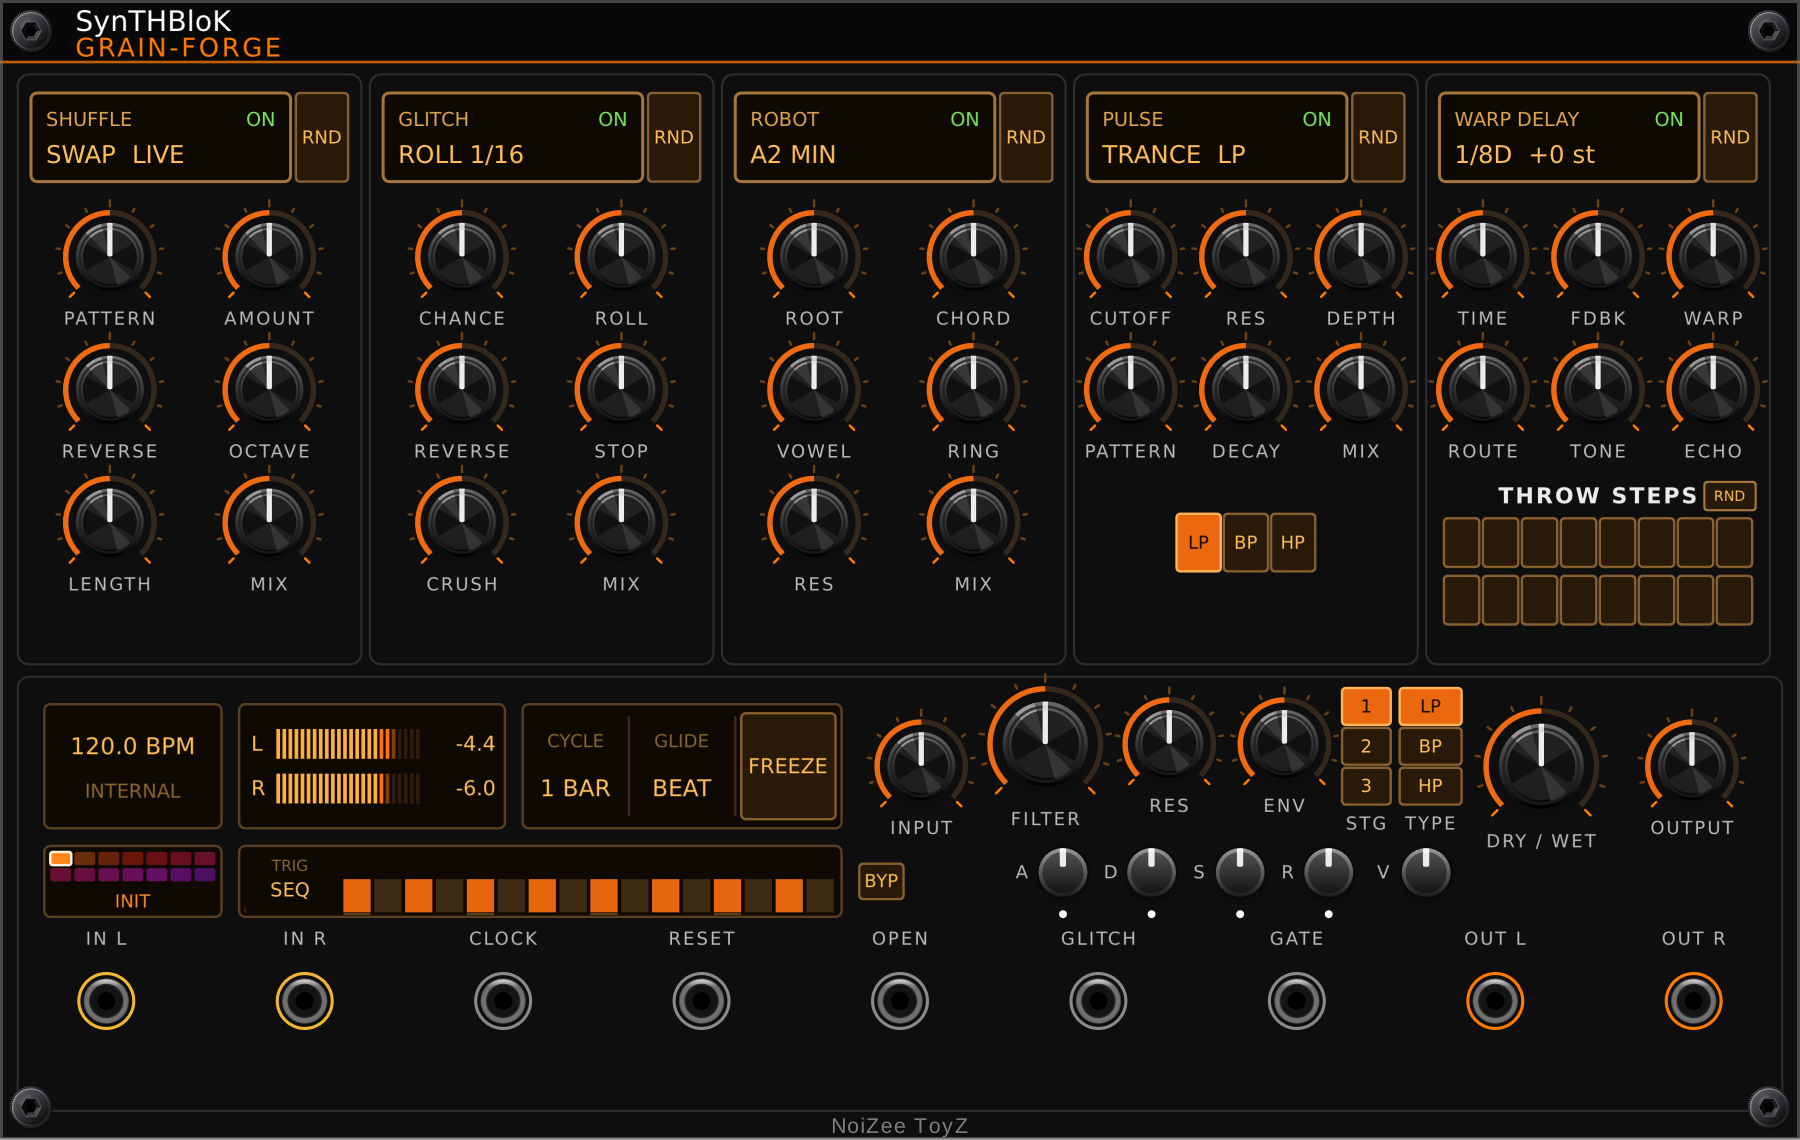
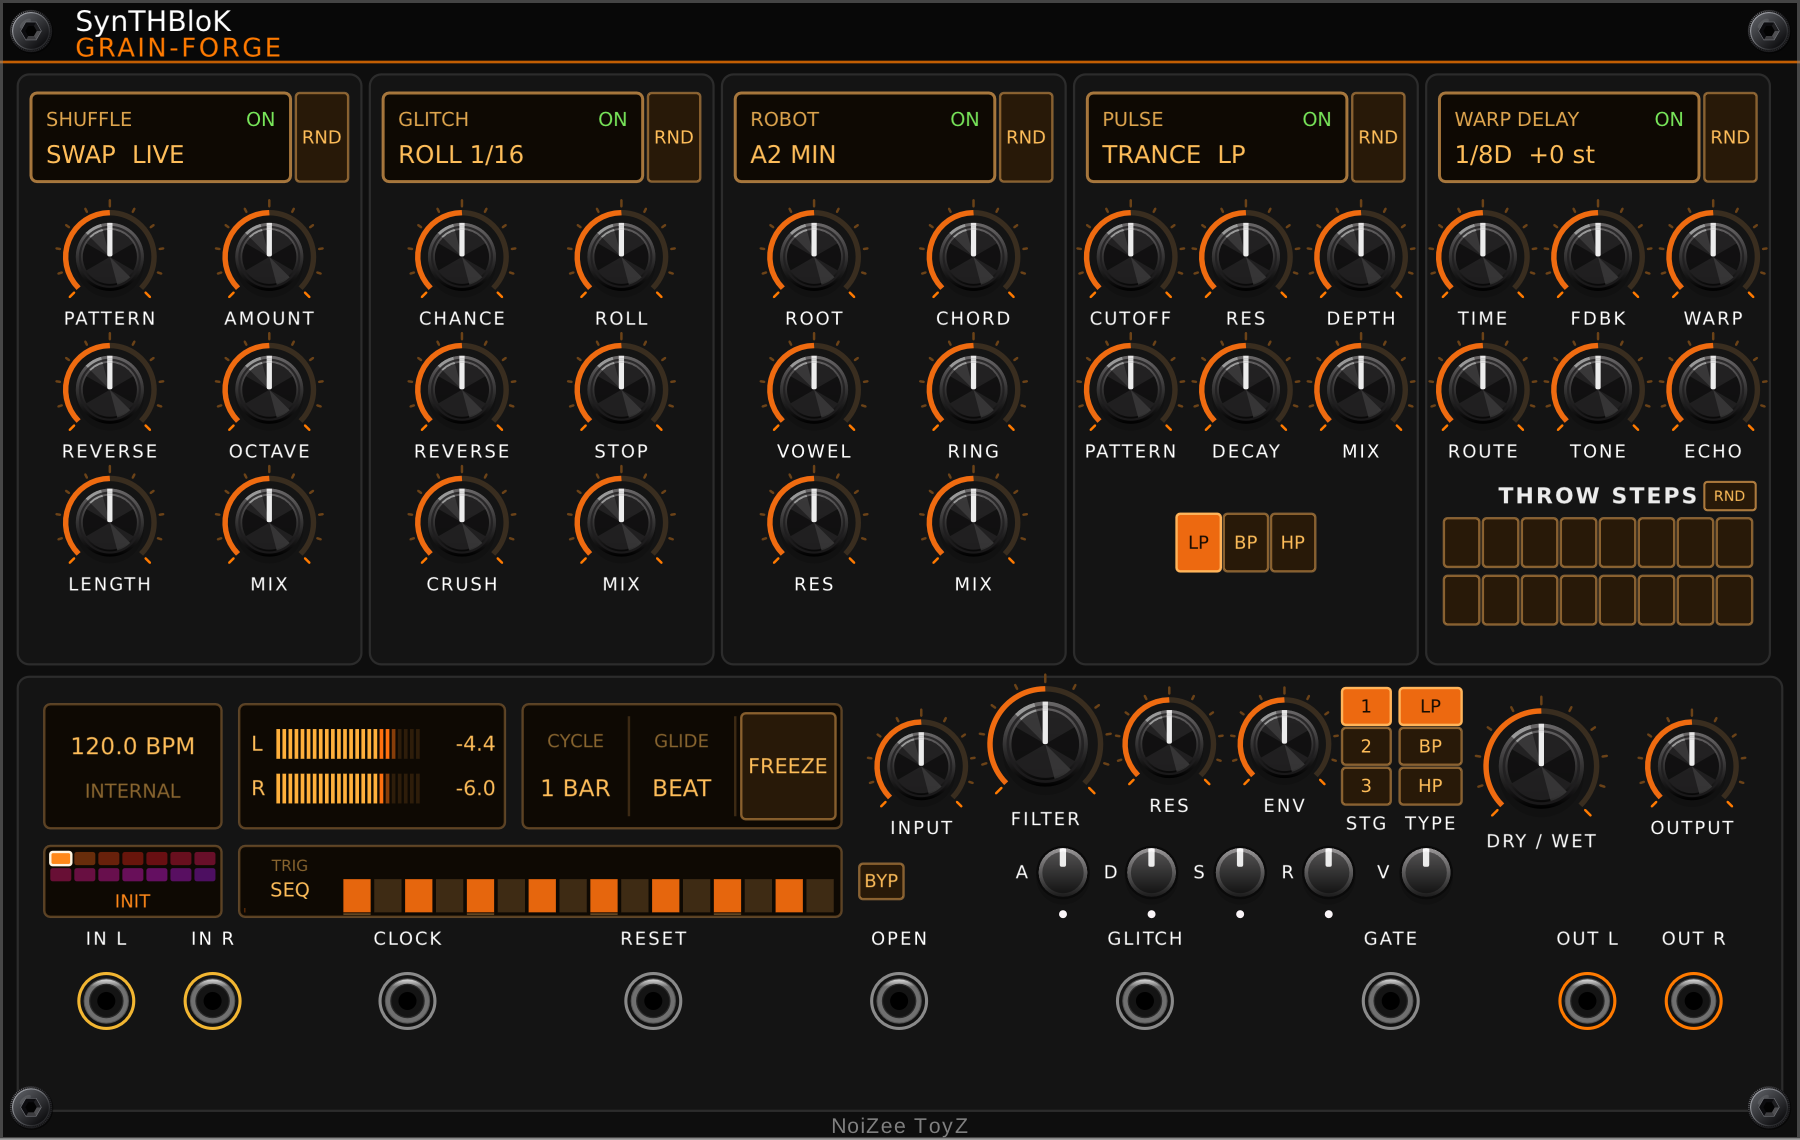
GRAIN-FORGE 2.1.2: panel colours like the other modules, audio ins and outs side by side, white labels
Claude-Session: https://claude.ai/code/session_0118GTBMnkcZFkLwi5NoL91P

diff --git a/src/SynTHBloKGrainForge.hpp b/src/SynTHBloKGrainForge.hpp
@@ -641,6 +641,7 @@ static std::shared_ptr<window::Font> uiFont() { return APP->window->uiFont; }
 struct GFLabel : TransparentWidget {
     std::string text;
     float size = 7.f;
+    bool white = false;    // (Nov 26 2026, Nick: GRAIN-FORGE labels white like the other free panels; FORGE FX in the paid modules keeps grey)
     bool header = false;   // FONTS Nov 26: section header 1.22x bold #ececec (false = unchanged look)
     void draw(const DrawArgs& args) override {
         auto font = uiFont(); if (!font) return;
@@ -652,7 +653,7 @@ struct GFLabel : TransparentWidget {
             drawSectionHeader(args.vg, box.size.x * 0.5f, box.size.y * 0.5f, text.c_str(), size);
             return;
         }
-        nvgFillColor(args.vg, oled::tRGB(0xbb, 0xbb, 0xbb));
+        nvgFillColor(args.vg, white ? oled::tRGB(0xff, 0xff, 0xff) : oled::tRGB(0xbb, 0xbb, 0xbb));
         nvgText(args.vg, box.size.x * 0.5f, box.size.y * 0.5f, text.c_str(), NULL);
     }
 };
@@ -1209,7 +1210,7 @@ static void gfAddPanel(ModuleWidget* mw, SynTHBloKGrainForge* module, float dx, 
     auto at = [&](float x, float y) { return mm2px(Vec(x + dx, y)); };
     auto label = [&](float cx, float cy, const std::string& text) {
         GFLabel* l = createWidget<GFLabel>(at(cx - 10.f, cy - 2.f));
-        l->box.size = mm2px(Vec(20.f, 4.f)); l->text = text;
+        l->box.size = mm2px(Vec(20.f, 4.f)); l->text = text; l->white = true;   // white labels (Nov 26)
         mw->addChild(l);
     };
     auto knob = [&](float x, float y, int param, const char* name) {
@@ -1351,8 +1352,10 @@ static void gfAddPanel(ModuleWidget* mw, SynTHBloKGrainForge* module, float dx, 
 
     if (!jacks) return;
     const char* jn[9] = {"IN L", "IN R", "CLOCK", "RESET", "OPEN", "GLITCH", "GATE", "OUT L", "OUT R"};
+    // (Nick, Nov 26 2026: audio ins and audio outs squeezed into pairs; the 5 control jacks evenly between them)
+    const float jx[9] = {12.f, 24.f, 46.f, 73.75f, 101.5f, 129.25f, 157.f, 179.2f, 191.2f};
     for (int i = 0; i < 9; i++) {
-        float x = 12.f + i * 22.4f;
+        float x = jx[i];
         label(x, 106.f, jn[i]);
         Vec p = at(x, 113.f);
         if (i < 7) mw->addInput(createInputCentered<BlackJack>(p, module, i));
